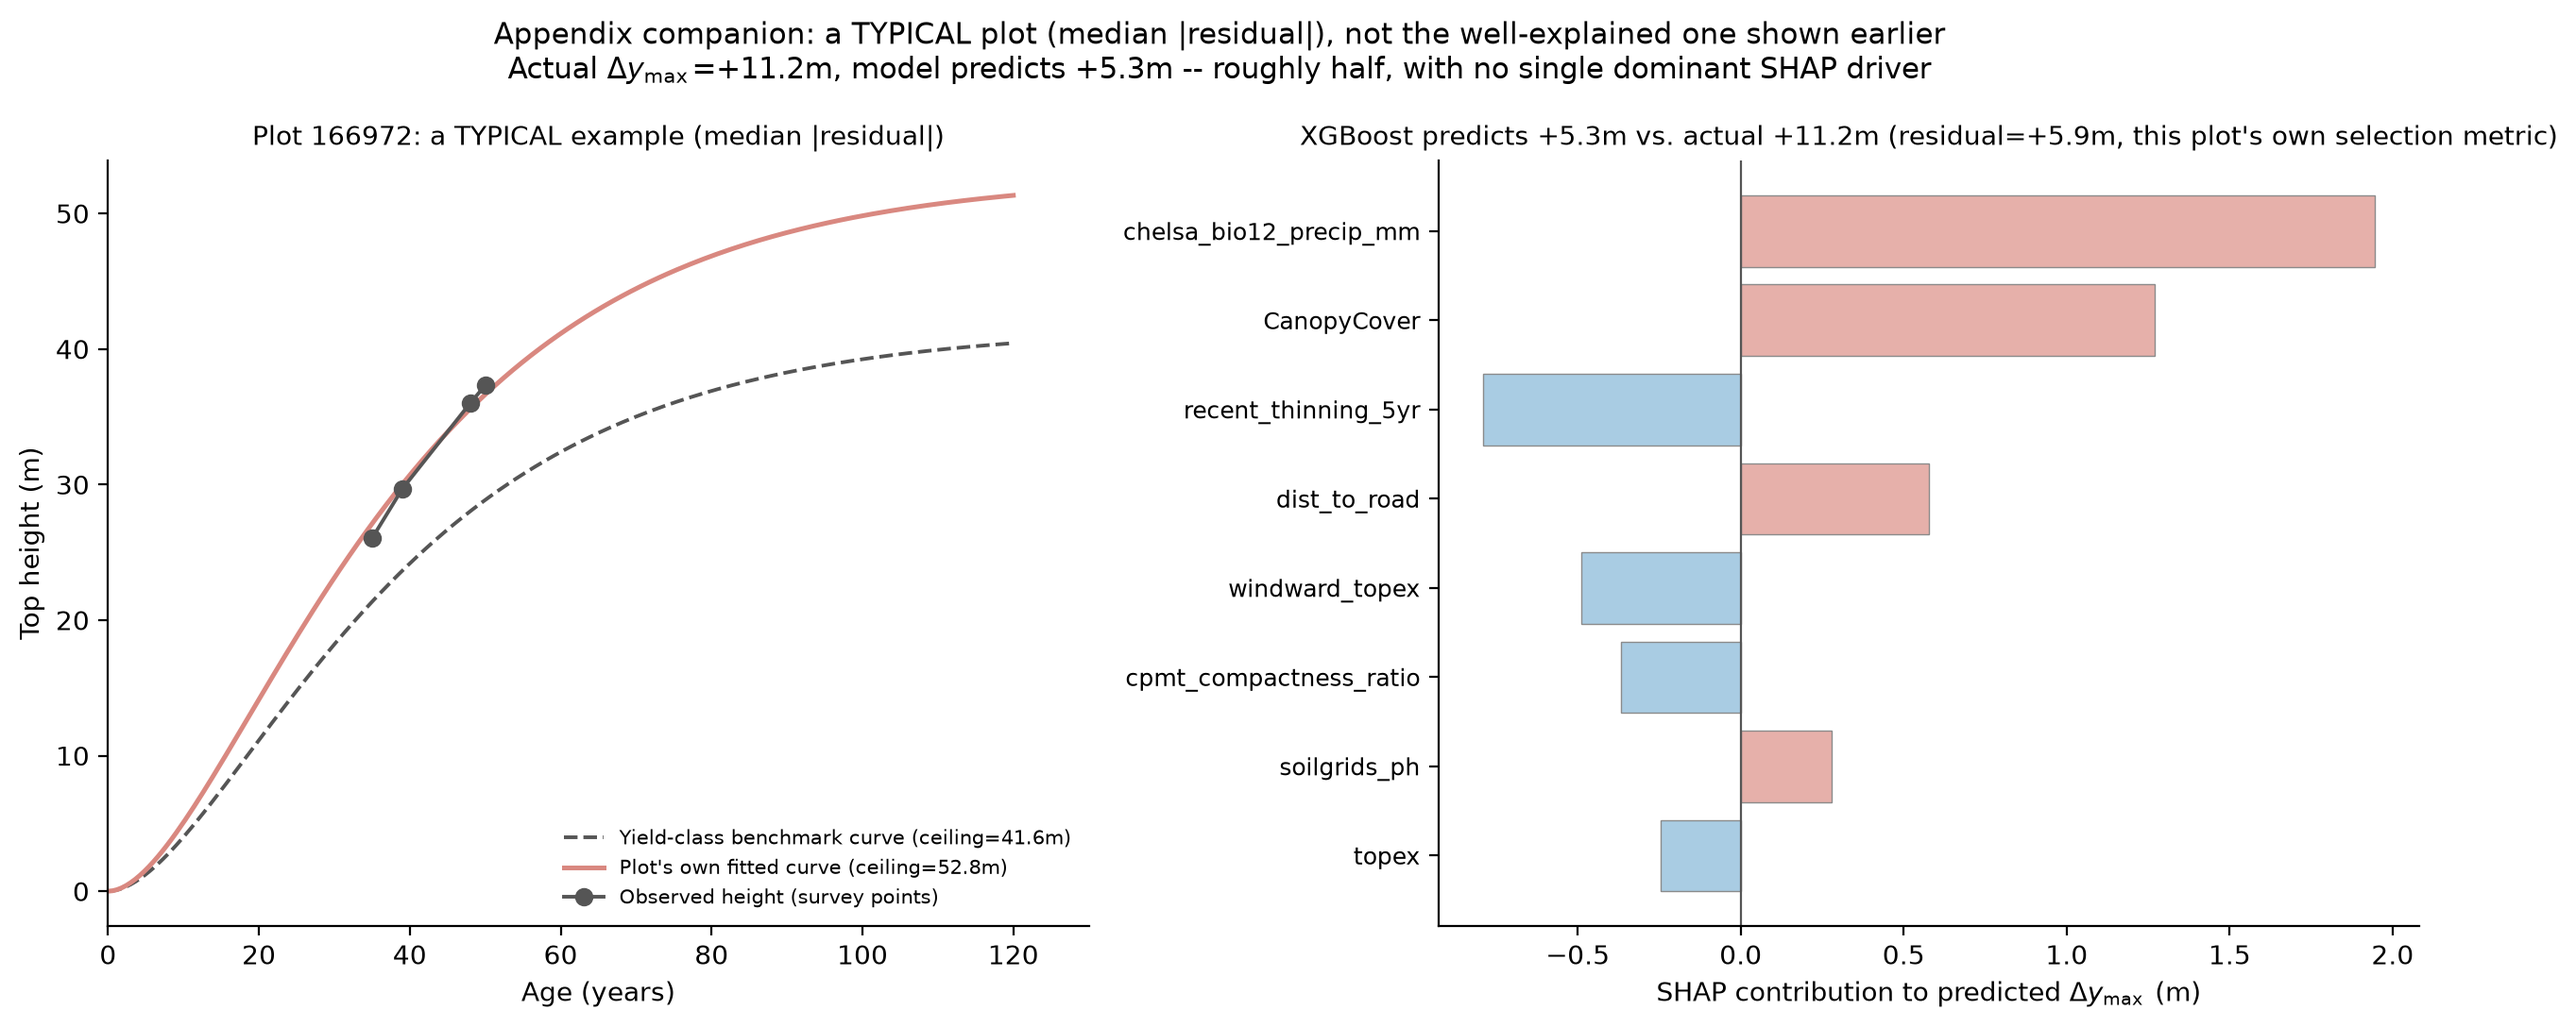
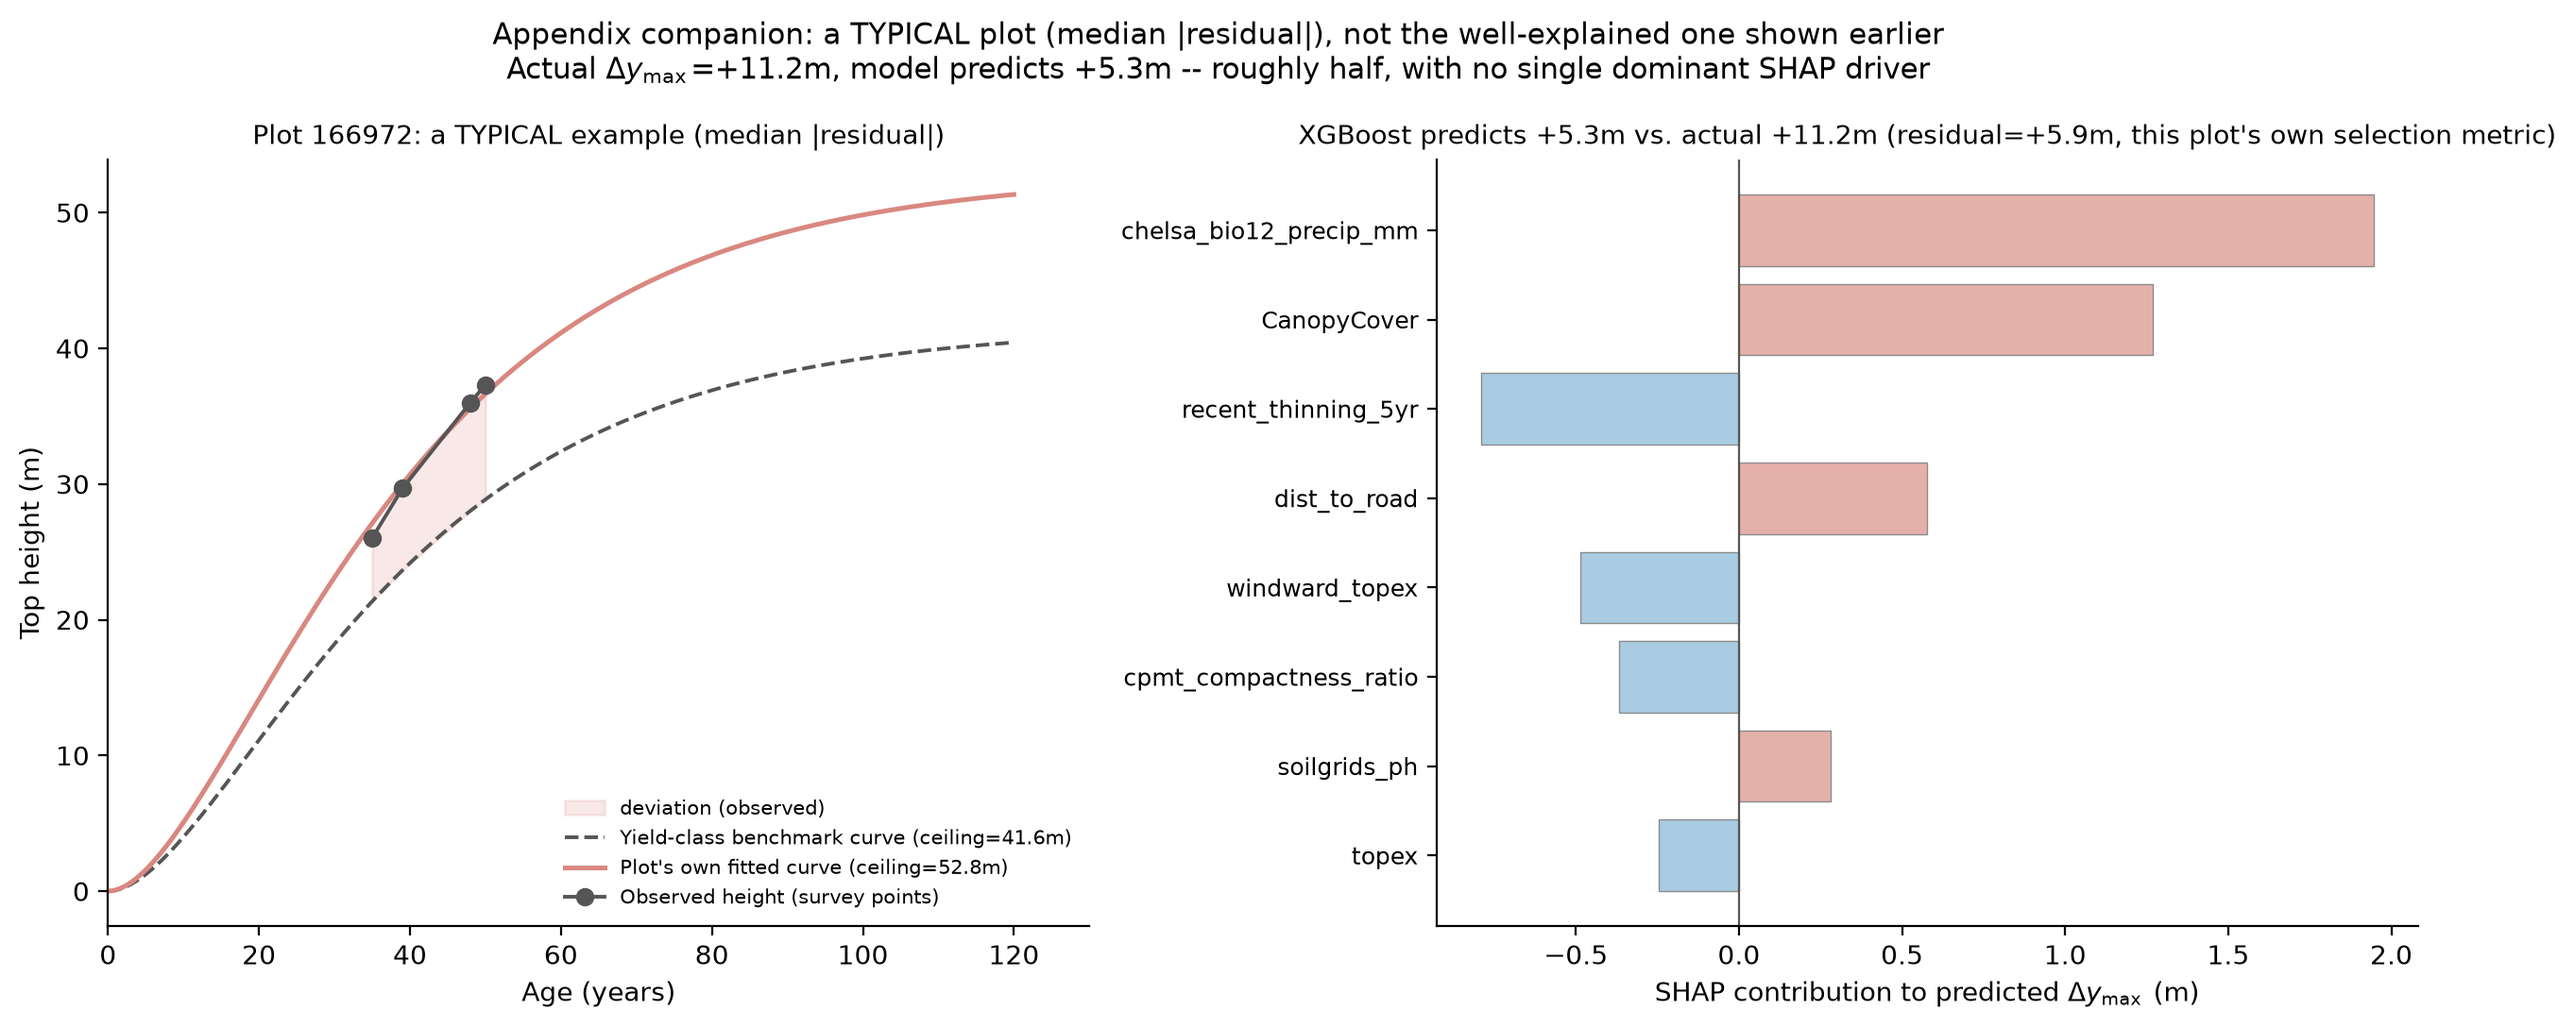
results draft paraphs building blocks q2

diff --git a/documentation/refocus_draft/working_results/results_q2_22_08_0214.tex b/documentation/refocus_draft/working_results/results_q2_22_08_0214.tex
@@ -1,0 +1,120 @@
+% =============================================================================
+% Q2 -- BRIDGE DRAFT (2026-08-23), between phrase-blocks and full prose.
+% Not final chapter text -- connected clauses/fragments with numbers, figures, and
+% tables woven in inline, so nothing load-bearing gets lost. Write your own sentences
+% from this directly; do not treat this file as compilable prose.
+% Ordering: headline-first, per the agreed Q2 story (weak result folds into the real
+% headline as a pivot, not a separate opening section).
+% Source tables/figures already built:
+%   Table~\ref{tab:results-q2}            -- old CI table (4/6survey, EN/XGB/GNNWR)
+%   Table~\ref{tab:results-q2-ablation}   -- CanopyCover ablation grid (NEW)
+%   Table~\ref{tab:results-q2-reliability}-- Q1/Q2 variable-reliability cross-check (NEW)
+%   Figure~\ref{fig:q2-example-plot}      -- q2_example_plot_curve.png
+%   Figure~\ref{fig:q2-example-plot-typical} -- q2_example_plot_curve_typical_appendix.png (appendix)
+%   Figure~\ref{fig:q2-stability-map}     -- q2_topex_vs_canopycover_stability.png
+% =============================================================================
+
+--- 0. OPENING / PIVOT ---
+Q1: global models (one formula, whole forest) -> real spatial clustering left in errors.
+Q2 test: does letting the model vary by location (GNNWR) pick up what global misses?
+
+Point estimate: GNNWR > EN, XGBoost, every set (Table~\ref{tab:results-q2}) --
+Set4: GNNWR 0.294 [0.236, 0.347] vs. EN 0.240 [0.192, 0.286] vs. XGBoost 0.250 [0.201, 0.295].
+But: CIs overlap every set -- not statistically distinguishable.
+Also modest in absolute terms -- best point estimate (Set2, 0.320) still leaves ~2/3 of
+Delta y_max unexplained.
+Pivot needed here: tested WHY GNNWR wins even by that small, uncertain margin -- answer
+overturns the reason for trying GNNWR in the first place.
+
+--- 1. THE HEADLINE -- CanopyCover explains the whole edge ---
+Claim: GNNWR's entire advantage over the global models = one variable (CanopyCover), not
+a general ability to read environmental relationships by place.
+
+Test: ablation -- remove CanopyCover, refit all three (Table~\ref{tab:results-q2-ablation}).
+  full Set4:       EN 0.240 / XGB 0.250 / GNNWR 0.294 (0.277+/-0.068 fold-mean)
+  no CanopyCover:  EN 0.042 / XGB 0.061 / GNNWR 0.049 (0.026+/-0.067 fold-mean) -- all
+                   three collapse to the same near-zero floor
+  CanopyCover ONLY, nothing else: GNNWR 0.249 (0.235+/-0.030 fold-mean) -- recovers
+                   ~82% of the full gap: (0.249-0.049)/(0.294-0.049)
+
+Ruled out: circularity -- raw correlation CanopyCover vs. target = 0.468 (r^2~0.22),
+moderate, not near 1 -- but still means nothing else in the 19-variable set carries
+independent weight.
+
+So-what: the hypothesis behind testing GNNWR (spatial modelling reveals hidden
+environmental drivers) is wrong -- GNNWR just re-found the one variable every method
+already had, expressed slightly differently by place.
+
+--- 2. WHY SO LITTLE ELSE COMES THROUGH -- the target is noisier than it looks ---
+Claim: Delta y_max isn't a clean, isolated ceiling measurement -- it's mixed with
+growth-rate mismatch.
+
+Mechanism: curve-fit holds each plot's growth rate (k) fixed to its yield class, only
+fits the ceiling -- if real rate != assumed rate, the mismatch doesn't disappear, it
+leaks into the fitted ceiling instead.
+
+Worked example -- Figure~\ref{fig:q2-example-plot}, plot 309770 (mature stand, observed
+ages 65-81): own fitted ceiling 43.0m vs. yield-class benchmark 32.8m -> Delta y_max =
++10.2m; XGBoost predicts +12.4m for this plot; shaded region on the trajectory panel =
+the real, measured gap over the observed ages (not just the extrapolated ceiling
+difference).
+Worth a phrase: CanopyCover's SHAP contribution is NEGATIVE for this specific plot even
+though it's positive on average across the population -- direction isn't fixed per plot.
+
+Appendix companion -- Figure~\ref{fig:q2-example-plot-typical}, plot 166972 (picked by
+median |residual|, not cherry-picked): actual +11.2m, model predicts +5.3m, roughly half
+explained, no single dominant SHAP driver -- discloses that Figure 1's plot is unusually
+well-explained, not typical.
+
+So-what: explains finding 1 mechanistically -- a noisy target leaves little clean signal
+for anything except the variable most directly tied to real, measured structure
+(CanopyCover).
+
+--- 3. CROSS-CHECK WITH Q1 -- same variables, same behaviour, two different tests ---
+Claim: terrain-variable reliability pattern matches Q1's -- found via a genuinely
+different method each time (Table~\ref{tab:results-q2-reliability}).
+
+Q2's test: GNNWR's own local coefficient, % of compartments with the same sign (n=231) --
+CanopyCover 100.0%, slope_degrees 97.0%, chelsa_bio12_precip_mm 87.4%, topex 71.9%.
+
+Q1's test: does a global Elastic Net model agree with a linear mixed-effects model
+(LMM) on a variable's coefficient? slope_degrees & precip: EN/LMM agree (both positive /
+both negative respectively) -> reliable. topex: EN~=0, LMM=+1.32 -> disagree -- BUT a
+mechanism check (within-compartment correlation vs. raw correlation) shows this
+disagreement is because topex carries REAL local signal (within-corr 0.214 > raw-corr
+0.080) that a single straight line struggles to capture, not because it's noise.
+
+Caveat, must state plainly: these are two different measurements (global-model agreement
+vs. local-coefficient sign stability) that happen to point the same way -- not the same
+test literally repeated. The agreement is more informative because of that, not less.
+
+Visual -- Figure~\ref{fig:q2-stability-map}: CanopyCover map (uniformly stable, one
+colour direction) vs. topex map (mixed sign, patchy) side by side, same colour scale.
+
+So-what: strengthens confidence this isn't a one-chapter artifact -- the same variables
+behave consistently regardless of method or target.
+
+--- 4. LOOSE ENDS -- one phrase-chain each, not developed into their own paragraphs ---
+Terrain non-linear: windward_topex & slope_degrees show a real, saturating (rises then
+flattens) SHAP relationship to the target that XGBoost can see and GNNWR structurally
+can't fully use (GNNWR is local-*linear* -- one straight line per place) -- a small
+effect overall, since CanopyCover already carries ~80-90% of the model's total
+explanatory power.
+
+Outliers: under 1% of the 4-survey cohort (266/56,526), Tukey-fence flagged -- same
+rate/ceiling-mixing mechanism as finding 2, at an extreme scale -- not a separate
+headline; full diagnostics (71.6% artifact-driven / 28.4% genuinely fast growth split,
+exposed vs. sheltered terrain) preserved as an appendix-candidate block, not developed
+in the main text given how small a share of the data this is.
+
+6-survey: run as a planned sensitivity check, not the primary analysis -- R^2~0 for
+Elastic Net, XGBoost, and GNNWR alike, consistent with far fewer distinct compartments
+(47 vs. 231) -- not investigated further.
+
+--- 5. CLOSING -- so what for the dissertation ---
+Genuine negative result, not a failed test -- tells you the LIMIT of this approach
+(a target that blends growth-rate and ceiling noise together, plus a spatially-varying
+model that can only draw a straight line per place), not just that it didn't work.
+Contrast phrase, to fill in once Q3 is drafted: Q2's negative result vs. Q3's positive
+one -- worth stating why Q3 delivered practical value and Q2 delivered a boundary
+condition instead.

diff --git a/documentation/refocus_draft/working_results/results_q3_21_08_0754pm.tex b/documentation/refocus_draft/working_results/results_q3_21_08_0754pm.tex
@@ -20,30 +20,32 @@ Q1 and Q2 established that a plot's persistent deviation from the shared growth 
 \scriptsize
 \setlength{\tabcolsep}{4pt}
 \renewcommand{\arraystretch}{1.2}
-\begin{tabular}{lrrrrrr}
+\begin{tabular}{lrrr}
 \toprule
-& \multicolumn{3}{c}{Four-survey} & \multicolumn{3}{c}{Six-survey} \\
-\cmidrule(lr){2-4} \cmidrule(lr){5-7}
-Model & RMSE${\downarrow}$ & MAE${\downarrow}$ & $R^2{\uparrow}$ & RMSE${\downarrow}$ & MAE${\downarrow}$ & $R^2{\uparrow}$ \\
+Model & RMSE${\downarrow}$ & MAE${\downarrow}$ & $R^2{\uparrow}$ \\
 \midrule
-Linear & $5.168{\pm}0.361$ & $4.056{\pm}0.343$ & $0.580{\pm}0.026$ & $4.877{\pm}0.643$ & $3.619{\pm}0.426$ & $0.509{\pm}0.067$ \\
-RF & $4.794{\pm}0.187$ & $3.611{\pm}0.142$ & $0.638{\pm}0.011$ & $4.062{\pm}0.249$ & $3.010{\pm}0.185$ & $0.656{\pm}0.046$ \\
-XGBoost (tuned) & $\mathbf{4.548{\pm}0.137}$ & $\mathbf{3.431{\pm}0.123}$ & $\mathbf{0.674{\pm}0.009}$ & $\mathbf{3.656{\pm}0.232}$ & $\mathbf{2.669{\pm}0.183}$ & $\mathbf{0.722{\pm}0.031}$ \\
-DNN & $4.681{\pm}0.230$ & $3.533{\pm}0.201$ & $0.655{\pm}0.016$ & $3.903{\pm}0.316$ & $2.867{\pm}0.275$ & $0.684{\pm}0.031$ \\
-PINN$^*$ & $4.842{\pm}0.321$ & $3.689{\pm}0.289$ & $0.631{\pm}0.027$ & -- & -- & -- \\
-PINN-$k^*$ & $4.927{\pm}0.302$ & $3.745{\pm}0.271$ & $0.618{\pm}0.023$ & -- & -- & -- \\
+Linear & $5.168{\pm}0.361$ & $4.056{\pm}0.343$ & $0.580{\pm}0.026$ \\
+RF & $4.794{\pm}0.187$ & $3.611{\pm}0.142$ & $0.638{\pm}0.011$ \\
+XGBoost (tuned) & $\mathbf{4.548{\pm}0.137}$ & $\mathbf{3.431{\pm}0.123}$ & $\mathbf{0.674{\pm}0.009}$ \\
+DNN & $4.681{\pm}0.230$ & $3.533{\pm}0.201$ & $0.655{\pm}0.016$ \\
+PINN$^*$ & $4.842{\pm}0.321$ & $3.689{\pm}0.289$ & $0.631{\pm}0.027$ \\
+PINN-$k^*$ & $4.927{\pm}0.302$ & $3.745{\pm}0.271$ & $0.618{\pm}0.023$ \\
 \bottomrule
 \end{tabular}
-\caption{\small{Model comparison for top-height prediction, Set3, spatial\_block\_kfold,
-per-fold mean $\pm$ SD across five folds. 4survey n=232{,}292 row-years (58{,}073
-plots, after an additional terrain/wind feature-completeness filter reduces the base
-58{,}112-plot cohort from Table~\ref{tab:data-cleaning-funnel} by 39 plots); 6survey n=82{,}614 row-years (13{,}769 plots). Table shows pooled mean $\pm$ SD across all folds, and margin reflects the full split rather than single folds.
+\caption{\small{Model comparison for top-height prediction, 4-survey, Set3,
+spatial\_block\_kfold, per-fold mean $\pm$ SD across five folds. n=232{,}292 row-years
+(58{,}073 plots, after an additional terrain/wind feature-completeness filter reduces the
+base 58{,}112-plot cohort from Table~\ref{tab:data-cleaning-funnel} by 39 plots). Table
+shows pooled mean $\pm$ SD across all folds, and margin reflects the full split rather than
+single folds. 6-survey results are referenced in the DNN-vs.-XGBoost discussion below (the
+fold-count and compartment-subsampling checks) but are not carried as a second set of columns
+here for clarity, since 6-survey is not this chapter's main analysis surface; the full
+6-survey table (all six models) is in Appendix~\ref{app:results-q3-6survey}.
 $^*$PINN/PINN-$k$: the originally implemented forward pass did not carry
-$y_{\max}/k$ to the prediction itself, only to auxiliary loss terms; the
-4survey figures shown here use a corrected forward pass that fixes this (see
-``PINN: interpretability and current standing'' below). Unlike every other
-row, this corrected architecture received no hyperparameter tuning. 6survey
-was not rerun with the correction (--).}}
+$y_{\max}/k$ to the prediction itself, only to auxiliary loss terms; the figures shown here
+use a corrected forward pass that fixes this (see ``PINN: interpretability and current
+standing'' below). Unlike every other row, this corrected architecture received no
+hyperparameter tuning.}}
 \label{tab:results-q3}
 \end{table}
 

diff --git a/documentation/refocus_draft/working_results/appendix_results.tex b/documentation/refocus_draft/working_results/appendix_results.tex
@@ -90,6 +90,41 @@ whcl & $-0.594\pm0.228$ & $-0.459\pm0.400$ & Yes & Static (not verified) & Not a
 \section{Q3 appendix}
 \label{app:results-q3}
 
+\subsection{Full 6-survey table}
+\label{app:results-q3-6survey}
+% Moved out of the main Table~\ref{tab:results-q3} 2026-08-23 for clarity, since 6-survey is
+% not this chapter's main analysis surface (see that table's caption). PINN/PINN-k rows show
+% -- : the corrected-forward-pass work this chapter reports (environment sweep, lambda
+% ablation, hyperparameter checks -- see temp_results_pinn/RESULTS_TABLE.md) was all done on
+% 4-survey only; 6-survey was never rerun with the corrected architecture, and the pre-fix
+% 6-survey numbers are not valid evidence for the corrected model (same reasoning as the
+% pre-fix PINN runs excluded from the main table).
+
+\begin{table}[!htbp]
+\centering
+\scriptsize
+\setlength{\tabcolsep}{4pt}
+\renewcommand{\arraystretch}{1.2}
+\begin{tabular}{lrrr}
+\toprule
+Model & RMSE${\downarrow}$ & MAE${\downarrow}$ & $R^2{\uparrow}$ \\
+\midrule
+Linear & $4.877{\pm}0.643$ & $3.619{\pm}0.426$ & $0.509{\pm}0.067$ \\
+RF & $4.062{\pm}0.249$ & $3.010{\pm}0.185$ & $0.656{\pm}0.046$ \\
+XGBoost (tuned) & $\mathbf{3.656{\pm}0.232}$ & $\mathbf{2.669{\pm}0.183}$ & $\mathbf{0.722{\pm}0.031}$ \\
+DNN & $3.903{\pm}0.316$ & $2.867{\pm}0.275$ & $0.684{\pm}0.031$ \\
+PINN & -- & -- & -- \\
+PINN-$k$ & -- & -- & -- \\
+\bottomrule
+\end{tabular}
+\caption{\small{Model comparison for top-height prediction, 6-survey, Set3,
+spatial\_block\_kfold, per-fold mean $\pm$ SD across five folds. n=82{,}614 row-years
+(13{,}769 plots). Referenced from the main text's DNN-vs.-XGBoost fold-count and
+compartment-subsampling discussion. PINN/PINN-$k$ were not rerun with the corrected
+forward pass on this cohort (--); see main-text Table~\ref{tab:results-q3}'s caption.}}
+\label{tab:results-q3-6survey}
+\end{table}
+
 \subsection{Pre-fix PINN runs (uncorrected baseline, for comparison)}
 \label{app:results-q3-prefix-pinn}
 % AUDIT: placeholder -- results_q3 currently points this content at the generic \ref{chap:appendix} rather than

diff --git a/documentation/refocus_draft/working_results/results_q2_21_08_0754pm.tex b/documentation/refocus_draft/working_results/results_q2_21_08_0754pm.tex
@@ -200,3 +200,4 @@ other way round. Answers Q2 items 4--6, 9.}
 
 
 %=======================================================================================
+</content>
